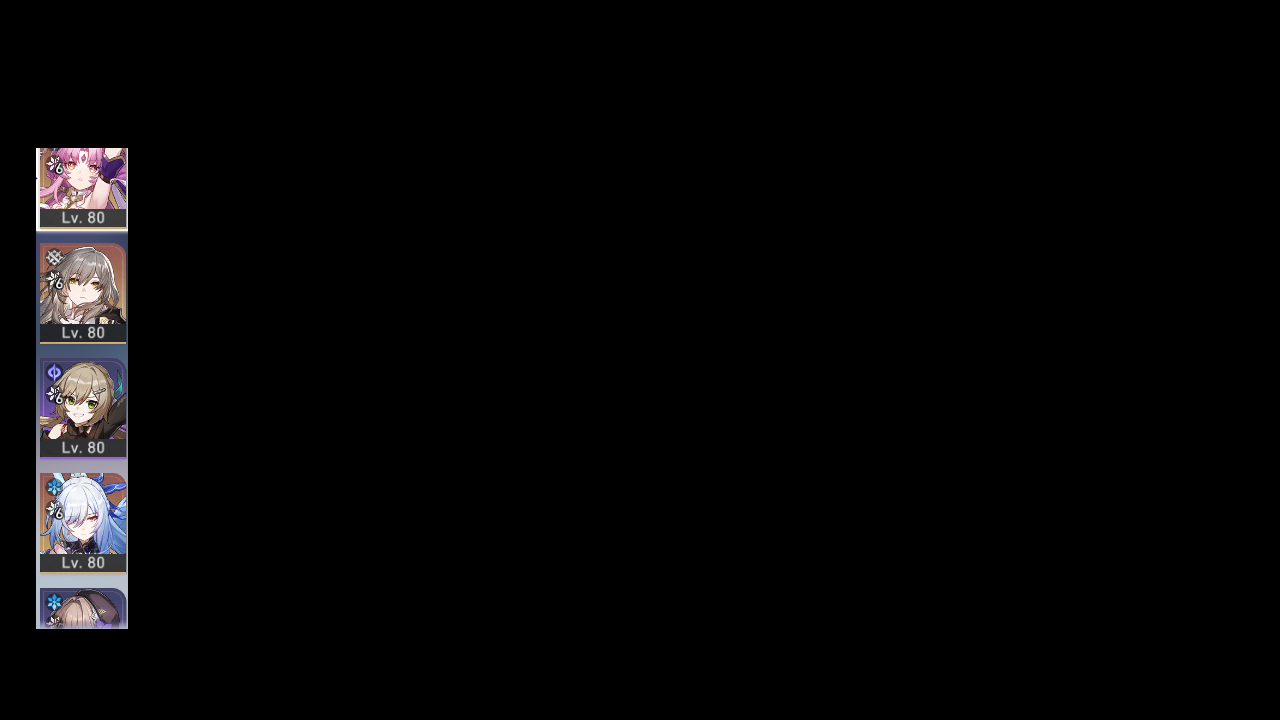
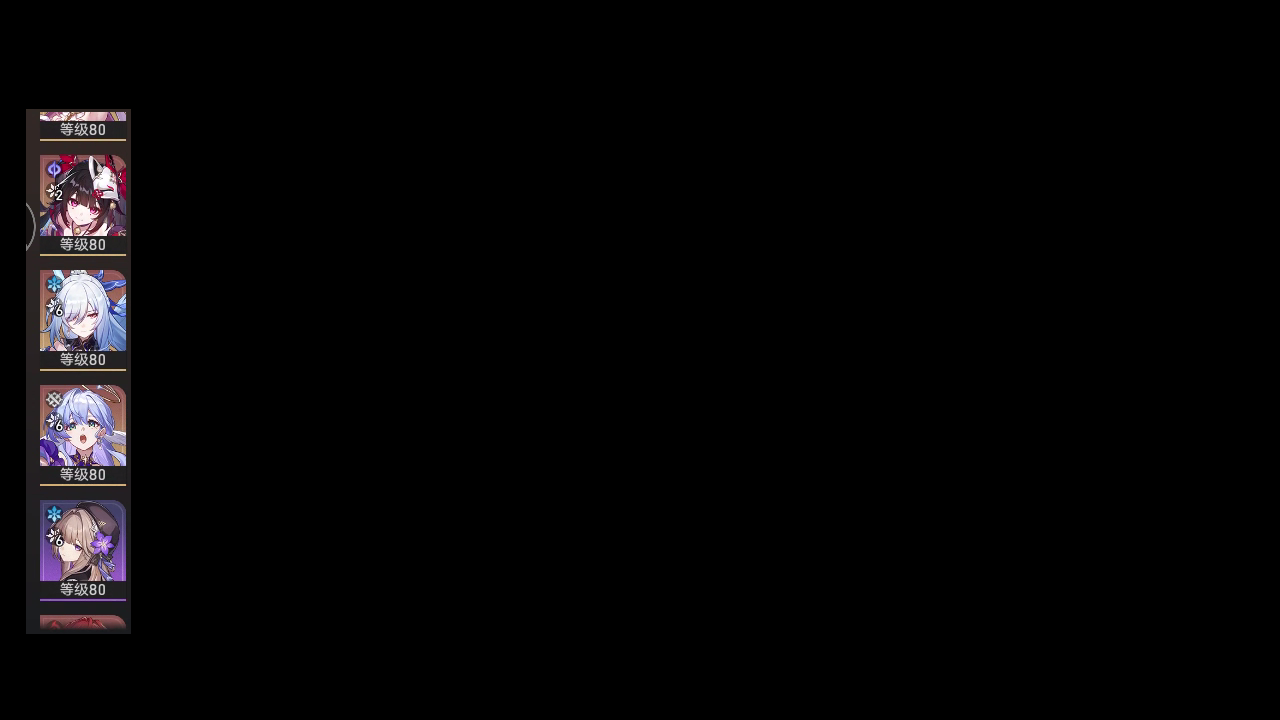
Upd: COMBAT_SUPPORT_LIST
so first support can be detected

Changed region(s): [[0.0, 0.1528, 0.125, 0.8861]]

diff --git a/tasks/combat/assets/assets_combat_support.py b/tasks/combat/assets/assets_combat_support.py
@@ -18,7 +18,7 @@ COMBAT_SUPPORT_LIST = ButtonWrapper(
     share=Button(
         file='./assets/share/combat/support/COMBAT_SUPPORT_LIST.png',
         area=(39, 645, 65, 669),
-        search=(19, 625, 85, 689),
+        search=(32, 643, 72, 683),
         color=(204, 206, 206),
         button=(39, 645, 65, 669),
     ),
@@ -27,10 +27,10 @@ COMBAT_SUPPORT_LIST_GRID = ButtonWrapper(
     name='COMBAT_SUPPORT_LIST_GRID',
     share=Button(
         file='./assets/share/combat/support/COMBAT_SUPPORT_LIST_GRID.png',
-        area=(36, 148, 128, 629),
-        search=(16, 128, 148, 649),
-        color=(135, 124, 133),
-        button=(36, 148, 128, 629),
+        area=(26, 109, 131, 634),
+        search=(6, 89, 151, 654),
+        color=(101, 87, 99),
+        button=(26, 109, 131, 634),
     ),
 )
 COMBAT_SUPPORT_LIST_SCROLL = ButtonWrapper(
